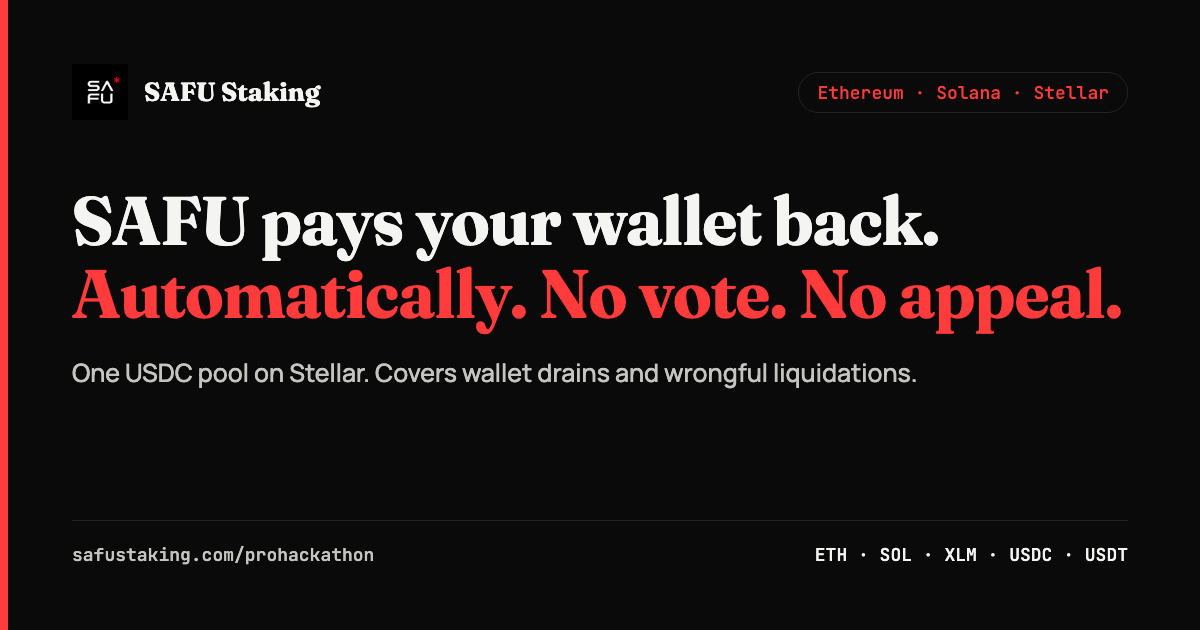
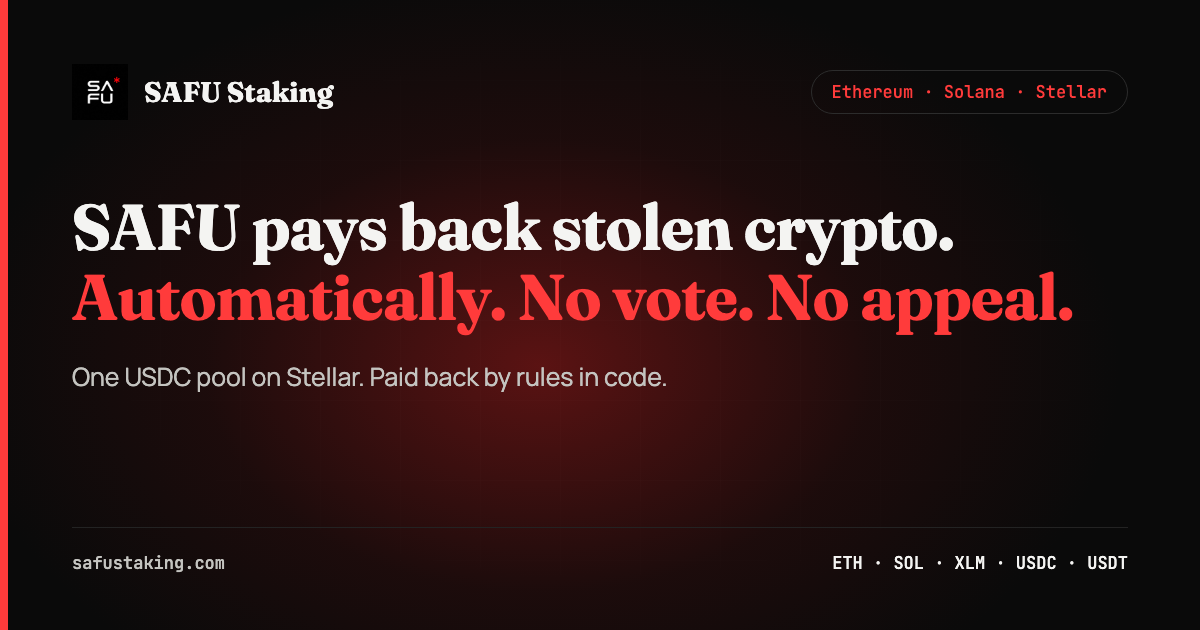
site: crimson sky background (deck + survey) and theft-positioning link preview (founder 31 Oct)

diff --git a/src/index.css b/src/index.css
@@ -1491,3 +1491,33 @@ body {
 .step-stats .side-stat {
   margin: 0;
 }
+
+/* Crimson sky, 2026-10-31 (founder): the deck + survey background, used on every SAFU surface
+   (safustaking.com, solana.safustaking.com, link preview, decks). Values from the Demo Day deck. */
+body {
+  position: relative;
+}
+body::before,
+body::after {
+  content: "";
+  position: fixed;
+  inset: 0;
+  pointer-events: none;
+  z-index: 0;
+}
+body::before {
+  background: radial-gradient(ellipse 70% 60% at 50% 8%, rgba(140, 24, 24, 0.55), rgba(56, 14, 14, 0.35) 45%, transparent 78%);
+}
+body::after {
+  opacity: 0.5;
+  background-image:
+    linear-gradient(rgba(255, 255, 255, 0.025) 1px, transparent 1px),
+    linear-gradient(90deg, rgba(255, 255, 255, 0.025) 1px, transparent 1px);
+  background-size: 120px 120px;
+  mask-image: radial-gradient(ellipse 70% 70% at 50% 30%, #000 30%, transparent 80%);
+  -webkit-mask-image: radial-gradient(ellipse 70% 70% at 50% 30%, #000 30%, transparent 80%);
+}
+#root {
+  position: relative;
+  z-index: 1;
+}
